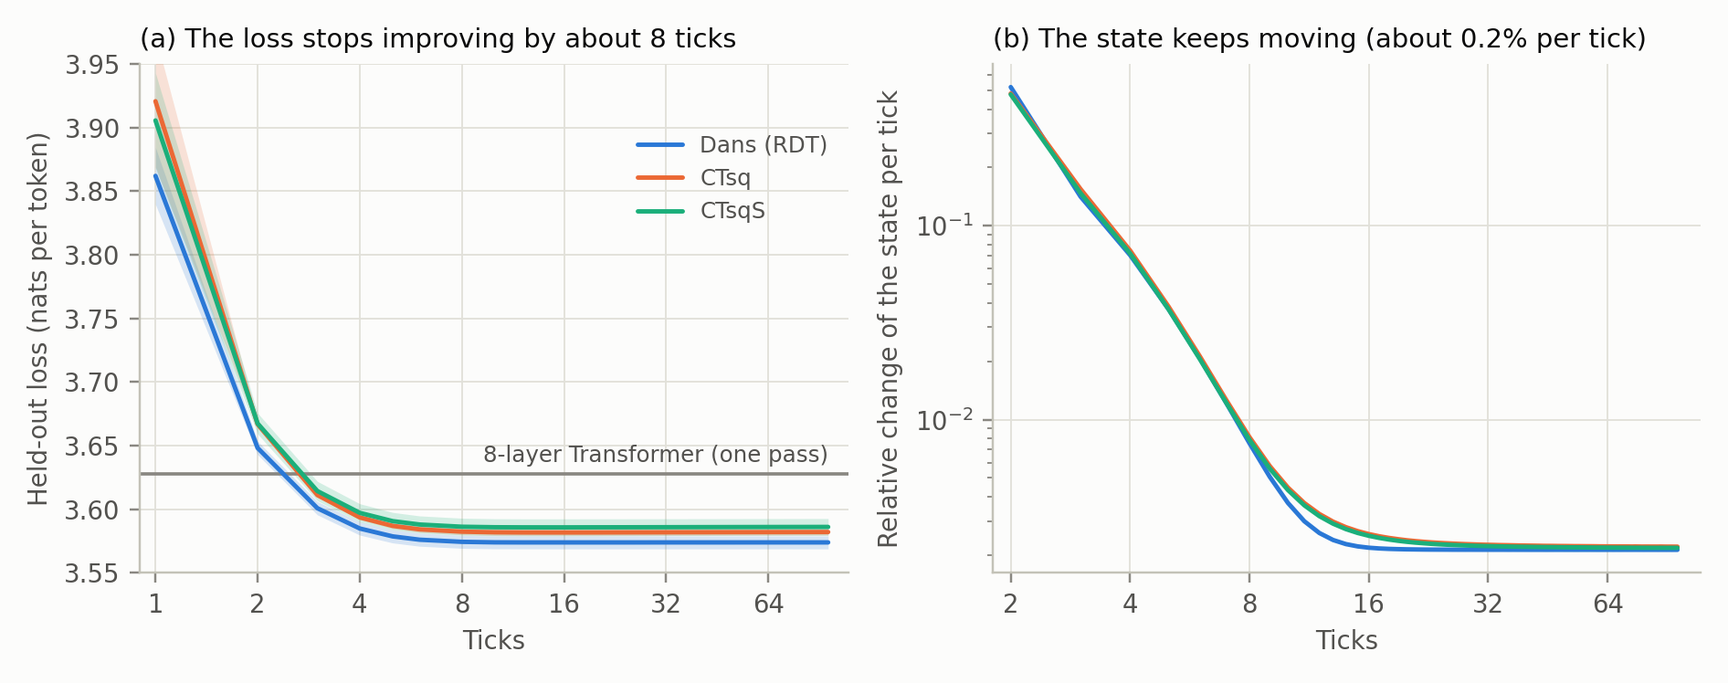
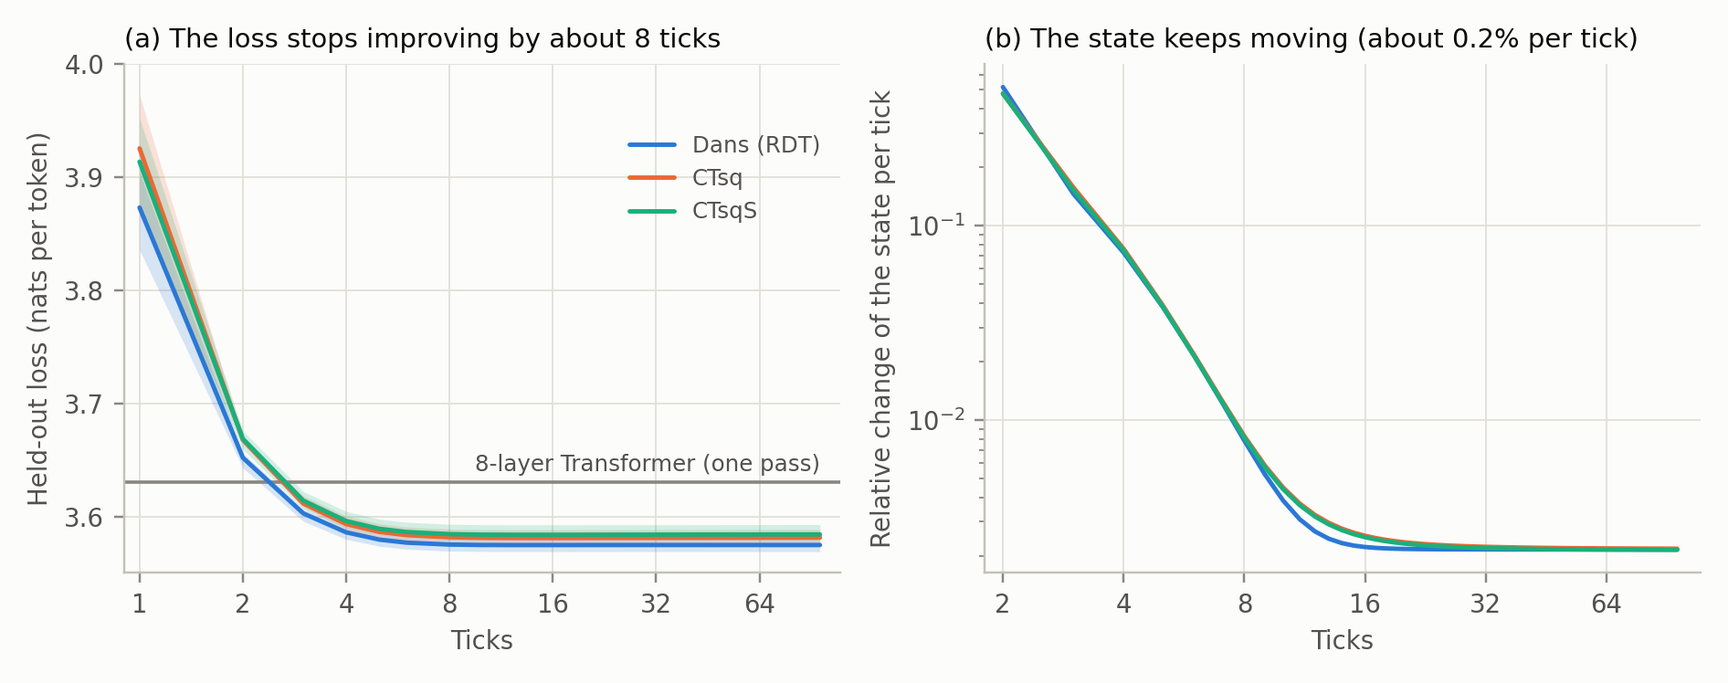
Paper: final five-seed LM results (CTsq/CTsqS slightly worse than Dans and inside the 0.02 margin), compute-matched T8x (0.41 better than Dans), T20 against Dans at 4 ticks, the official CTM on our tasks (0/35 recall; copy, sort, parity not learned); Figure 1 with five seeds
Claude-Session: https://claude.ai/code/session_01Sy476E2vMMV2Cs4U9aq6GN

diff --git a/scripts/paper_figures.py b/scripts/paper_figures.py
@@ -30,11 +30,13 @@ def save(fig,name):
 
 
 def fig1_fixed_point():
-    """(a) Held-out loss against ticks, 1,024 windows (scripts/lm_unified_eval.py): two-seed means, band = the two seeds;
-    T8 as a line (two-seed mean). (b) The state's relative change per tick."""
+    """(a) Held-out loss against ticks, 1,024 windows (scripts/lm_unified_eval.py): five-seed means, band = range over
+    the five seeds; T8 as a line (five-seed mean). (b) The state's relative change per tick."""
     U=R/'lm_unified';load=lambda n:json.loads((U/f'{n}.json').read_text())
-    series=[('Dans (RDT)',BLUE,['Dans_rand_lr0.002','Dans_rand_lr0.002_s2']),('CTsq',ORANGE,['CTsq_lr0.002','CTsq_lr0.002_s2']),('CTsqS',AQUA,['CTsqS_lr0.002','CTsqS_lr0.002_s2'])]
-    fig,(ax,bx)=plt.subplots(1,2,figsize=(8.6,3.4));t8=mean([load(n)['loss']['1'] for n in ('T8_lr0.002','T8_lr0.002_s2')])
+    five=lambda a,first:first+[f'{a}_lr0.002_s{s}' for s in (3,4,5)]  # seeds 1234 and 2, then the revision's seeds 3-5
+    series=[('Dans (RDT)',BLUE,five('Dans',['Dans_rand_lr0.002','Dans_rand_lr0.002_s2'])),('CTsq',ORANGE,five('CTsq',['CTsq_lr0.002','CTsq_lr0.002_s2'])),
+            ('CTsqS',AQUA,five('CTsqS',['CTsqS_lr0.002','CTsqS_lr0.002_s2']))]
+    fig,(ax,bx)=plt.subplots(1,2,figsize=(8.6,3.4));t8=mean([load(n)['loss']['1'] for n in five('T8',['T8_lr0.002','T8_lr0.002_s2'])])
     ax.axhline(t8,color=MUTED,linewidth=1.2);ax.text(96,t8+0.006,'8-layer Transformer (one pass)',ha='right',va='bottom',color=TEXT2,fontsize=8)
     for name,color,runs in series:
         rs=[load(n) for n in runs];ticks=sorted(int(k) for k in rs[0]['loss']);ys=[[r['loss'][str(t)] for r in rs] for t in ticks]
@@ -42,7 +44,7 @@ def fig1_fixed_point():
         ax.plot(ticks,[mean(v) for v in ys],color=color,label=name)
         ch=[mean([r['relative_state_change'][str(t)] for r in rs]) for t in range(2,97)];bx.plot(range(2,97),ch,color=color,label=name)  # tick 1 starts from the zero state
     for a in (ax,bx):a.set_xscale('log',base=2);a.set_xticks([1,2,4,8,16,32,64]);a.set_xticklabels(['1','2','4','8','16','32','64']);a.set_xlabel('Ticks')
-    ax.set_xlim(0.9,110);ax.set_ylim(3.55,3.95);ax.set_ylabel('Held-out loss (nats per token)');ax.legend(loc='upper right',bbox_to_anchor=(1.0,0.9),fontsize=8,labelcolor=TEXT2)
+    ax.set_xlim(0.9,110);ax.set_ylim(3.55,4.0);ax.set_ylabel('Held-out loss (nats per token)');ax.legend(loc='upper right',bbox_to_anchor=(1.0,0.9),fontsize=8,labelcolor=TEXT2)
     ax.set_title('(a) The loss stops improving by about 8 ticks',fontsize=9.5,color=TEXT,loc='left')
     bx.set_yscale('log');bx.set_ylabel('Relative change of the state per tick');bx.set_xlim(1.8,110);bx.set_xticks([2,4,8,16,32,64]);bx.set_xticklabels(['2','4','8','16','32','64'])
     bx.set_title('(b) The state keeps moving (about 0.2% per tick)',fontsize=9.5,color=TEXT,loc='left')

diff --git a/research/PAPER_DRAFT.md b/research/PAPER_DRAFT.md
@@ -1,6 +1,6 @@
 # Thinking Inside the Transformer: A Controlled Study of Continuous Thought Machine Mechanisms in Language Models
 
-*Revision draft, 2026-11-23, after external review (`research/REVIEW_RESPONSE.md`). Figures: `scripts/paper_figures.py` (`research/figures/`). Every number is from a committed result; each test's rules were fixed in its script before its runs (Appendix C). Items marked **[Pending]** await runs in progress.*
+*Revision draft, 2026-11-27, after external review (`research/REVIEW_RESPONSE.md`). Figures: `scripts/paper_figures.py` (`research/figures/`). Every number is from a committed result; each test's rules were fixed in its script before its runs (Appendix C). Items marked **[Pending]** await runs in progress.*
 
 ---
 
@@ -13,7 +13,11 @@ Do the mechanisms of the Continuous Thought Machine (CTM) and the Continuous Mem
 
 We merge them into the Transformer's own components, rather than attaching a CTM as a separate module. Each addition is zero-initialized, so the untrained model equals the RDT reference (Dans) at any tick count and the plain Transformer at one tick. Every comparison is held to the same standard: matched size, tuned learning rates on a √2 grid, replicate seeds, and rules fixed before the runs. All claims are about the mechanisms *as merged here*, at 50M parameters and 400M tokens for language modelling, and at 1.6M parameters for controlled tasks.
 
-**Language modelling.** No variant is better than Dans. Every variant is within 0.016 nats of it on two seeds, and all but one are numerically behind it. **[Pending: equivalence tests (TOST, margin 0.02) on five seeds.]** The mechanisms are used: removing synchronization from the queries costs 0.06–0.07 nats. The recurrent models beat the parameter-matched 8-layer Transformer by about 0.05 nats while using about 8.4 times its training compute. **[Pending: a Transformer matched in both parameters and compute.]** Held-out loss stops improving by about 8 ticks in every recurrent model, although the state keeps changing by about 0.2% per tick.
+**Language modelling.** No variant is better than Dans. On five seeds, the two tuned CTM arms are slightly worse: CTsq by 0.006 nats and CTsqS by 0.009 (Holm p = 0.039 and 0.030). Both differences also lie inside a 0.02-nat equivalence margin, so the cost is detectable but small. The mechanisms are used: removing synchronization from the queries costs 0.06–0.07 nats. Dans beats the parameter-matched 8-layer Transformer by 0.056 nats, but only per parameter:
+- spending Dans's training compute on 8.4 times the tokens instead, the same 8-layer Transformer is 0.41 nats better than Dans;
+- at Dans's 4-tick compute, a 20-layer Transformer is 0.014 nats better than Dans at 4 ticks.
+
+Held-out loss stops improving by about 8 ticks in every recurrent model, although the state keeps changing by about 0.2% per tick.
 
 **The CTM's training claims**, as merged here: certainty is not a usable stopping signal, calibration does not distinguish the models, and the CTM loss destabilizes the recurrence.
 
@@ -22,9 +26,9 @@ We merge them into the Transformer's own components, rather than attaching a CTM
 - the same query pathway carrying a first-order running mean, with identical parameters, binds in 3 of 20;
 - Dans with a smaller tick sampler binds in 5 of 20.
 
-The plain Transformer binds in 19 of 20. The advantage over Dans narrows at width 256 and is absent in pretrained language models.
+The plain Transformer binds in 19 of 20. The official CTM, trained from its authors' code on the same task, binds in 0 of 20, and at our budgets learns none of copy, sort or parity either. The advantage over Dans narrows at width 256 and is absent in pretrained language models.
 
-We conclude that, at this scale, a Transformer can host the CTM's mechanisms and uses them, but they add nothing measurable to a tuned RDT on language modelling. Synchronization does carry a specific inductive bias that helps a small recurrent model learn binding.
+We conclude that, at this scale, a Transformer can host the CTM's mechanisms and uses them, but on language modelling they cost a little against a tuned RDT rather than helping, and the RDT's own advantage over the Transformer holds per parameter, not per unit of compute. Synchronization does carry a specific inductive bias that helps a small recurrent model learn binding.
 
 ---
 
@@ -48,11 +52,12 @@ A head can be bypassed. We therefore **merge** the mechanisms into the thinking 
 1. **The CTM Transformer:** a merge of CTM and CMM mechanisms into a Transformer's own components that is exact at initialization (§3).
 2. **A pre-registered comparison** with a tuned RDT and the plain Transformer on language modelling (§5.1–5.3), with:
    - a √2 learning-rate grid for every arm;
-   - five seeds and equivalence tests **[Pending]**;
+   - five seeds and equivalence tests;
+   - Transformers matched in compute as well as parameters;
    - ablations and liveness checks;
    - tests of the CTM's adaptive-compute, calibration and training-loss claims.
 3. **A confirmation that tick-scaling extrapolation belongs to recurrence** trained with input-scaled ticks (§5.4). This is a known result for looped and recurrent networks (Schwarzschild et al., 2021; Bansal et al., 2022; Fan et al., 2025). We confirm it here, including for the CTM variants, and add one serial parity solution as a case study.
-4. **An attributed effect of synchronization on learning key-value binding** in small recurrent models, with controls for the sink, the extra query pathway and the baseline's tick sampler (§5.5). We also map where it ends.
+4. **An attributed effect of synchronization on learning key-value binding** in small recurrent models, with controls for the sink, the extra query pathway and the baseline's tick sampler (§5.5). We also map where it ends, and train the official CTM on the same tasks.
 
 Most of our tests find no advantage for the CTM mechanisms over a tuned RDT, and we report every one (Appendix B).
 
@@ -143,7 +148,7 @@ It has the same parameter count.
 | Name | Mechanisms | Zero-init (equals Dans untrained) | Where |
 |---|---|---|---|
 | **Dans** | RDT reference | – | all |
-| **T8**, **T20** | 8- and 20-layer Transformers (T20: Dans's compute at 4 ticks) | – | all |
+| **T8**, **T20**, **T8x** | 8- and 20-layer Transformers (T20: Dans's compute at 4 ticks; T8x: T8 trained on 8.4× the tokens, Dans's training compute) | – | all |
 | CTsq | synchronization queries | yes | §5.1, 5.4, 5.5 |
 | **CTsqS** | CTsq + CMM sink (the CTM Transformer's best) | yes | all |
 | CTso | synchronization output | yes | §5.1 |
@@ -165,7 +170,7 @@ It has the same parameter count.
 - **Schedule:** sequences of 1,024 tokens; 262,144 tokens per update; 1,526 updates (400M tokens, about 8 tokens per parameter); warmup 100, then cosine decay to 10%.
 - **Optimizer:** AdamW (Loshchilov and Hutter, 2019; β = 0.9, 0.95; weight decay 0.1); gradient clip 1; bf16.
 - **Learning rate:** every main arm (Dans, CTsq, CTsqS, T8, T20) is tuned on a √2 grid around 2e-3 (§5.1).
-- **Seeds:** 1234 and 2, extended to 1234 and 2–5 **[Pending]**. The seed changes initialization, data order and the tick sequence.
+- **Seeds:** 1234 and 2–5 (five) for Dans, CTsq, CTsqS, T8 and T20; 1234, 2 and 3 for T8x; 1234 and 2 for the untuned screens. The seed changes initialization, data order and the tick sequence.
 - **Evaluation set:** a single set throughout. Every language-model number is held-out loss on the same 1,024 validation windows (1,048,576 tokens), at 16 ticks unless stated (`scripts/lm_unified_eval.py`).
 
 **Controlled tasks.**
@@ -214,29 +219,32 @@ For every arm, 2e-3 is best, and the neighbouring half-steps are 0.016–0.030 n
 
 **Loss** (1,024 windows, 16 ticks):
 
-| Model | Seed 1234 | Seed 2 | Mean (2 seeds) | vs Dans | 5 seeds, mean [95% CI] |
-|---|---:|---:|---:|---:|---|
-| 8-layer Transformer (parameter-matched) | 3.618 | 3.638 | 3.628 | +0.054 | **[Pending]** |
-| 8-layer Transformer, compute-matched (T8x) | | | | | **[Pending]** |
-| 20-layer Transformer (Dans's compute at 4 ticks) | 3.562 | – | – | – | **[Pending]** |
-| **Dans (RDT)** | 3.569 | 3.579 | **3.574** | – | **[Pending]** |
-| CTsq | 3.584 | 3.579 | 3.582 | +0.008 | **[Pending]** |
-| CTsqS | 3.579 | 3.593 | 3.586 | +0.012 | **[Pending]** |
-| CTnlm (untuned screen) | 3.570 | 3.574 | 3.572 | −0.002 | – |
-| CTso (untuned screen) | 3.571 | 3.580 | 3.576 | +0.002 | – |
-| CTsqH (untuned screen) | 3.584 | 3.584 | 3.584 | +0.010 | – |
-| CTfull (untuned screen) | 3.586 | 3.590 | 3.588 | +0.014 | – |
+| Model | Seeds | Per seed (1234, 2, 3, 4, 5) | Mean [95% CI] | vs Dans |
+|---|---:|---|---|---:|
+| **Dans (RDT)** | 5 | 3.569, 3.579, 3.580, 3.574, 3.572 | **3.575** [3.569, 3.580] | – |
+| CTsq | 5 | 3.584, 3.579, 3.588, 3.576, 3.577 | 3.581 [3.575, 3.587] | +0.006 |
+| CTsqS | 5 | 3.579, 3.593, 3.588, 3.581, 3.579 | 3.584 [3.576, 3.591] | +0.009 |
+| 8-layer Transformer (T8, parameter-matched) | 5 | 3.618, 3.638, 3.636, 3.633, 3.626 | 3.630 [3.620, 3.640] | +0.056 |
+| 20-layer Transformer (T20, Dans's compute at 4 ticks) | 5 | 3.562, 3.571, 3.584, 3.574, 3.571 | 3.572 [3.563, 3.582] | −0.002 |
+| 8-layer Transformer, compute-matched (T8x) | 3 | 3.160, 3.170, 3.171 | 3.167 [3.152, 3.182] | −0.408 |
+| CTnlm (untuned screen) | 2 | 3.570, 3.574 | 3.572 | −0.003 |
+| CTso (untuned screen) | 2 | 3.571, 3.580 | 3.576 | +0.001 |
+| CTsqH (untuned screen) | 2 | 3.584, 3.584 | 3.584 | +0.009 |
+| CTfull (untuned screen) | 2 | 3.586, 3.590 | 3.588 | +0.013 |
+
+The screens are compared with the five-seed Dans mean without a test.
 
 **Results.**
-- **No variant is better than Dans.**
-  - The pre-registered superiority rule (0.02 below Dans) fails for every variant.
-  - Five of six variants are numerically behind Dans, by up to 0.014.
-  - A superiority rule cannot show the absence of harm. With two seeds, these differences are not distinguishable from zero, or from a small cost.
-  - **[Pending: TOST with a 0.02-nat margin for CTsq and CTsqS on five seeds; the result decides between "equivalent", "worse" and "inconclusive".]**
-- **The recurrent models beat the parameter-matched Transformer** by 0.040–0.056 nats.
-  - This is a per-parameter comparison. Dans trains with about 8.4 times T8's compute (67 against 8 layer applications per token at the mean training depth).
-  - At Dans's compute at 4 ticks, the 20-layer Transformer is 0.023 nats ahead of Dans at 4 ticks (3.562 against 3.585; one seed).
-  - **[Pending: T8x, an 8-layer Transformer trained on 8.4 times the tokens (3.36B), which matches Dans in both parameters and training compute.]**
+- **No variant is better than Dans, and the two tuned CTM arms are slightly worse.** The pre-registered rules (Welch tests on per-seed losses, Holm over CTsq and CTsqS):
+  - CTsq: +0.0062 nats (90% CI +0.0005 to +0.0120; Holm p = 0.039 for "worse");
+  - CTsqS: +0.0091 nats (90% CI +0.0027 to +0.0154; Holm p = 0.030);
+  - neither comes near the superiority margin (0.02 below Dans).
+- **Both differences are worse and, at the same time, equivalent.** Each meets the rule for "worse than Dans", and each 90% interval also lies inside the ±0.02 equivalence margin. The rules did not say which verdict takes precedence when both hold, so we report both: the cost is detectable, and smaller than the margin. No screened variant is ahead of Dans by more than 0.003.
+- **The recurrent models beat the parameter-matched Transformer, per parameter only.**
+  - Dans beats T8 by 0.056 nats (95% CI 0.046 to 0.066), CTsq by 0.049 and CTsqS by 0.047. But Dans trains with about 8.4 times T8's compute (67 against 8 layer applications per token at the mean training depth).
+  - T8x matches Dans in both parameters and training compute: T8 trained on 8.4 times the tokens (3.36B; 12,812 updates). It reaches 3.167, 0.408 nats better than Dans (95% CI 0.396 to 0.419). By the pre-registered rule, the T8 margin is therefore not a gain per unit of compute.
+  - T8x also sees 8.4 times the data, at about 70 tokens per non-embedding parameter against 8. It shows how best to spend a compute budget at this scale, not which architecture is better on fixed data.
+  - At Dans's compute at 4 ticks, the 20-layer Transformer (2.5 times the parameters) is 0.0135 nats ahead of Dans at 4 ticks (3.572 against 3.586; 95% CI 0.004 to 0.023). Even at 16 ticks, four times that compute, Dans does not reach it (3.575).
 
 **The mechanisms are used.** At the final checkpoint, removing a mechanism at evaluation costs:
 - synchronization queries: 0.063 and 0.070 nats;
@@ -271,13 +279,13 @@ The collapse may be specific to our additive, normalized-state recurrence. We di
 
 ### 5.3 Does thinking longer pay in the language model?
 
-**The loss plateaus by about 8 ticks** (Figure 1a). Two-seed means:
+**The loss plateaus by about 8 ticks** (Figure 1a). Five-seed means:
 
 | Ticks | 1 | 2 | 4 | 8 | 16 | 32 | 96 |
 |---|---:|---:|---:|---:|---:|---:|---:|
-| Dans | 3.862 | 3.648 | 3.585 | 3.575 | 3.574 | 3.574 | 3.574 |
-| CTsq | 3.921 | 3.667 | 3.594 | 3.583 | 3.582 | 3.582 | 3.582 |
-| CTsqS | 3.906 | 3.667 | 3.597 | 3.586 | 3.586 | 3.586 | 3.586 |
+| Dans | 3.873 | 3.652 | 3.586 | 3.575 | 3.575 | 3.575 | 3.575 |
+| CTsq | 3.925 | 3.668 | 3.593 | 3.582 | 3.581 | 3.581 | 3.581 |
+| CTsqS | 3.914 | 3.669 | 3.596 | 3.584 | 3.584 | 3.584 | 3.584 |
 
 - From 8 to 96 ticks, the loss changes by less than 0.0005 for every recurrent model.
 - **The state does not reach a fixed point.** Its relative change per tick, ‖s_t − s_{t−1}‖ / ‖s_{t−1}‖, falls to about 0.2% by tick 16 and stays there out to tick 96 (Figure 1b). The output stops changing while the state keeps moving, presumably in directions the coda ignores.
@@ -285,7 +293,7 @@ The collapse may be specific to our additive, normalized-state recurrence. We di
 
 ![Figure 1](figures/fig1_fixed_point.png)
 
-*Figure 1. (a) Held-out loss against the number of ticks at evaluation, 400M-token models, 1,024 windows; lines are two-seed means and bands the two seeds. The 8-layer Transformer line is its two-seed mean. (b) The state's mean relative change per tick, from tick 2 (tick 1 starts from the zero state).*
+*Figure 1. (a) Held-out loss against the number of ticks at evaluation, 400M-token models, 1,024 windows; lines are five-seed means and bands the range over the five seeds. The 8-layer Transformer line is its five-seed mean. (b) The state's mean relative change per tick, from tick 2 (tick 1 starts from the zero state).*
 
 Web-text loss is dominated by tokens that need no extra computation, so this plateau need not hold on reasoning tasks or at larger scale, where Huginn reports gains (Geiping et al., 2025).
 
@@ -365,6 +373,23 @@ Both models are at their tuned learning rates. CTsqS was tuned in the same grid 
 - These were the decisive tests, and synchronization passes all three.
 - The plain Transformer still binds more often than CTsqS (19/20 against 15/20; two-sided p = 0.18).
 
+**The official CTM on the same task** (`scripts/reference_ctm.py`; rules fixed before its runs).
+- **Setup:**
+  - the CTM from its authors' code (commit 4a6c9c3), sized to our models: 1.5–2.0M parameters, 32 ticks, d_model 512, 32 output and 32 action synchronization neurons, memory length 10, and deep neuron-level models;
+  - it reads the whole input (answers removed) through its attention, predicts every answer at each tick as in its parity task, trains with its own loss, and is scored at its most certain tick;
+  - same examples, curriculum, budget and evaluation draws as our models; a learning-rate grid (1e-4, 3e-4, 1e-3) on seeds 0–4, then the confirmatory seeds 5–24.
+- **It binds in 0 of 15 tuning runs and 0 of 20 confirmatory runs.** Its in-distribution query accuracy is 26% (OOD 14%), against CTsqS 15/20 (two-sided Fisher p < 0.001) and Dans 2/20 (p = 0.49).
+- **On the task grid** (3 seeds, 5,000 updates, sequence accuracy in distribution) it learns none of the tasks:
+
+| Task | Official CTM | Our models |
+|---|---:|---:|
+| Copy | 12% | 100% |
+| Sort | 0.1% | 98–100% |
+| Parity | 49% (chance) | 65–100% |
+
+- **What this shows:** at these budgets the CTM learns none of the four tasks, so the merge loses no ability the CTM shows here.
+- **What it does not show:** it does not show the CTM cannot learn them with its much longer published budgets (200,000 updates for parity). **[Pending: a reproduction of the CTM's published parity result with its own code and settings, three seeds, running.]**
+
 **Time to bind** (Figure 5). Runs bind at 3,000–5,000 updates or not at all (one Dans run bound at 9,000), so the fixed budget does not turn slow binders into failures. Log-rank tests on confirmatory seeds: CTsqS against Dans, p = 0.004 (seeds 5–14) and p = 0.001 (seeds 15–24).
 
 **What is gained is learning, not capacity.** Bound runs generalize to N 17–32 about equally whatever the model: mean OOD of bound runs is 79–88% per cell and phase. More ticks do nothing (64 against 16 ticks: within ±0.04 points).
@@ -413,7 +438,9 @@ The CTM mechanisms do not help here.
 
 ## 6. Discussion
 
-**What transfers.** The CTM's mechanisms can be merged into a Transformer exactly and cheaply, and the model relies on them. As merged, at 50M parameters and 400M tokens, they add nothing measurable to a tuned RDT on language modelling. They also leave unchanged the CTM properties we tested: certainty-based adaptive compute, calibration, and tick-scaling generalization.
+**What transfers.** The CTM's mechanisms can be merged into a Transformer exactly and cheaply, and the model relies on them. As merged, at 50M parameters and 400M tokens, they cost a tuned RDT 0.006–0.009 nats on language modelling, an amount inside our equivalence margin. They also leave unchanged the CTM properties we tested: certainty-based adaptive compute, calibration, and tick-scaling generalization.
+
+**Recurrence and compute.** At this scale the RDT's advantage over the Transformer is in parameters, not compute. Spent on more tokens, Dans's training compute makes the same 8-layer Transformer 0.41 nats better. Spent on depth, its 4-tick compute buys a 20-layer Transformer that beats Dans at 4 ticks and that Dans does not overtake at any tick count we tried, with 2.5 times the parameters. The usual argument for recurrence is test-time scaling at fixed parameters (Geiping et al., 2025). On web text at our scale that does not pay beyond 8 ticks, so neither argument favours recurrence here.
 
 **Thinking longer.** On web text the output stops improving by about 8 ticks, although the state keeps moving. On controlled serial tasks, thinking longer pays when training ticks scale with the problem, for the RDT as much as for the CTM Transformer. This is the known behaviour of looped networks (Schwarzschild et al., 2021; Fan et al., 2025).
 
@@ -421,9 +448,9 @@ The CTM mechanisms do not help here.
 
 **Limitations.**
 - **Scale:** our language models are 50M parameters at about 8 tokens per parameter. The CTM's benefits may need a scale or a task we did not reach. **[Pending: a second model size.]**
-- **No reference CTM yet.** Our conclusions concern the mechanisms as merged: a pre-norm residual state, additive injection, 4-tick neuron histories of width 4, and AdamW. **[Pending: the official CTM on our recall, copy, sort and parity tasks, and a reproduction of its published parity result.]**
+- **The reference CTM.** At our budgets the official CTM learns none of our tasks. That tells us the merge loses no ability the CTM shows here; it does not tell us how the CTM compares with long training. **[Pending: the reproduction of its published parity result.]** Our conclusions concern the mechanisms as merged: a pre-norm residual state, additive injection, 4-tick neuron histories of width 4, and AdamW.
 - **Initialization:** zero initialization starts optimization in Dans's basin. **[Pending: a warm-started variant.]**
-- **Seeds:** language-model claims rest on two seeds until the five-seed runs finish.
+- **Seeds:** five for the main language-model arms, three for T8x and two for the untuned screens, whose comparisons are untested.
 - **Training setup:** we used AdamW throughout, while Leon (2026) reports SGD for the biological mechanisms.
 - **Reproducibility:** compiled kernels make runs reproducible only to about 1e-4 in loss.
 
@@ -431,7 +458,7 @@ The CTM mechanisms do not help here.
 
 ## 7. Conclusion
 
-A Transformer can take on the Continuous Thought Machine's mechanisms in its own layers, exactly and at little extra cost, and it uses them. As merged here, at 50M parameters and 400M tokens, they do not improve on a well-tuned recurrent-depth Transformer at language modelling. The behaviours we tested either belong to recurrence trained with enough ticks (solving harder inputs by thinking longer) or did not appear (certainty-based adaptive compute, better calibration). The clearest positive result is specific: second-order synchronization in the attention queries helps a small recurrent model learn key-value binding, an effect that survives controls for the sink, the extra pathway and the tick sampler, and fades with width and pretraining.
+A Transformer can take on the Continuous Thought Machine's mechanisms in its own layers, exactly and at little extra cost, and it uses them. As merged here, at 50M parameters and 400M tokens, they do not improve on a well-tuned recurrent-depth Transformer at language modelling; they cost it 0.006–0.009 nats. That RDT's own advantage over a Transformer is per parameter: given the same compute, a Transformer trained on more tokens is far better. The behaviours we tested either belong to recurrence trained with enough ticks (solving harder inputs by thinking longer) or did not appear (certainty-based adaptive compute, better calibration). The clearest positive result is specific: second-order synchronization in the attention queries helps a small recurrent model learn key-value binding, an effect that survives controls for the sink, the extra pathway and the tick sampler, and fades with width and pretraining.
 
 ---
 
@@ -454,6 +481,7 @@ A Transformer can take on the Continuous Thought Machine's mechanisms in its own
   - the likely channel is the synchronization normalization's per-position tick count, which Dans lacks; this channel is not verified;
   - the label-free rerun is the reported result.
 - **Learning-rate tie-break (recall).** CTsq's selected rate (2e-3) won a 5-seed tie-break on OOD accuracy and proved worse on fresh seeds. We report the rule's outcome as negative.
+- **Interruptions.** Two power cuts and a machine restart stopped runs in progress. They resumed from their checkpoints; one run whose checkpoint had been left empty by the restart was rerun from update 0 with the same seed. Checkpoint saves were then made durable (forced to disk before and after the rename); training was not changed.
 - **Crashes.** One run crashed twice when concurrent workers corrupted a shared autotune cache; it was rerun with a private cache. Runs lost to crashes or restarts were rerun with the same seeds.
 - **The earlier CTM head.** Our earlier language model attached a CTM head per position to a Transformer backbone. Its ticks contributed nothing (see §1). It is unpublished, and it motivated the merge.
 
@@ -463,7 +491,9 @@ A Transformer can take on the Continuous Thought Machine's mechanisms in its own
 |---|---|---|
 | LM | Language modelling, 400M tokens (CTfull, CTsq, CTso, CTnlm, CTsqS, CTsqH) | No variant beats Dans; all beat T8 per parameter |
 | LM | Learning rate, √2 grid (Dans, CTsq, CTsqS, T8, T20) | 2e-3 best for every arm |
-| LM | Five seeds, TOST; compute-matched T8x | **[Pending]** |
+| LM | Five seeds, TOST (CTsq, CTsqS against Dans) | Worse than Dans (+0.006, +0.009; Holm p 0.039, 0.030) and inside the 0.02 equivalence margin |
+| LM | Dans against T8 and compute-matched T8x | Beats T8 by 0.056; does not beat T8x (T8x 0.41 better) |
+| LM | Dans at 4 ticks against T20 (reported) | T20 0.0135 better |
 | LM | CTM loss (four forms) | Collapse, or stable at +0.27 nats |
 | LM | Adaptive compute, calibration | No advantage over Dans |
 | LM | Per-token budgets (label-free) | Ticks do not pay |
@@ -476,7 +506,8 @@ A Transformer can take on the Continuous Thought Machine's mechanisms in its own
 | Recall | Width 256 | Does not hold (9/10 vs 6/10) |
 | Recall | In text, and its emergence, d704 | Both at ceiling |
 | Recall | Two-hop | Not learnable by any model |
-| Recall | Reference CTM | **[Pending]** |
+| Recall | Reference CTM, recall (lr grid, seeds 5–24) | 0/15 and 0/20 bound; CTsqS binds more reliably |
+| Algorithmic | Reference CTM, copy, sort, parity | None learned at 5,000 updates; published-parity reproduction running |
 | Lifelong | Without and with replay | No CTM win |
 
 ## Appendix C. Pre-registration commits
